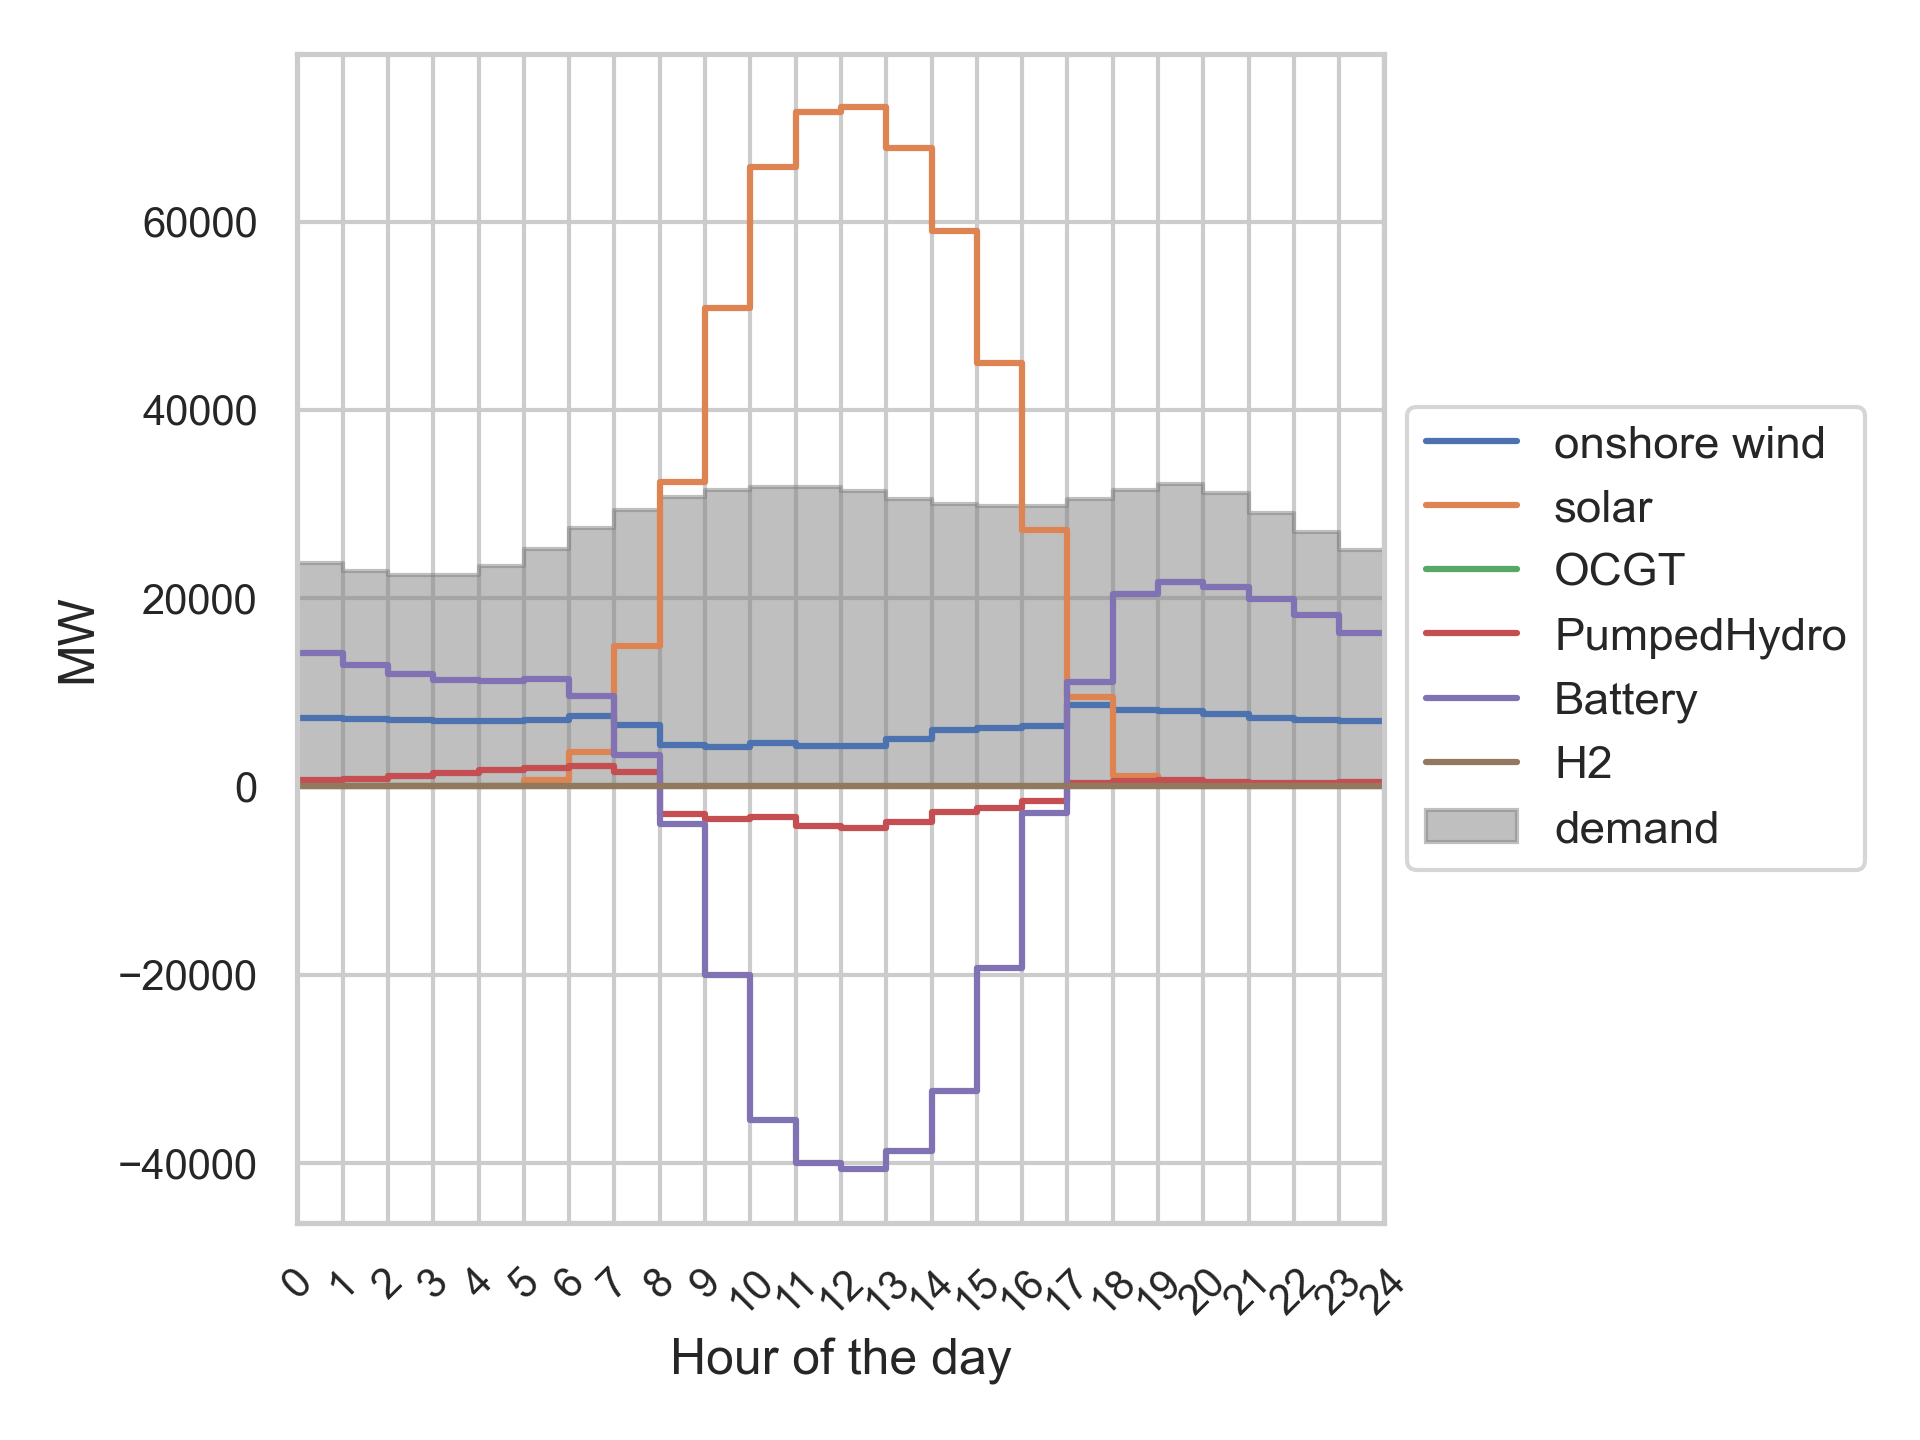
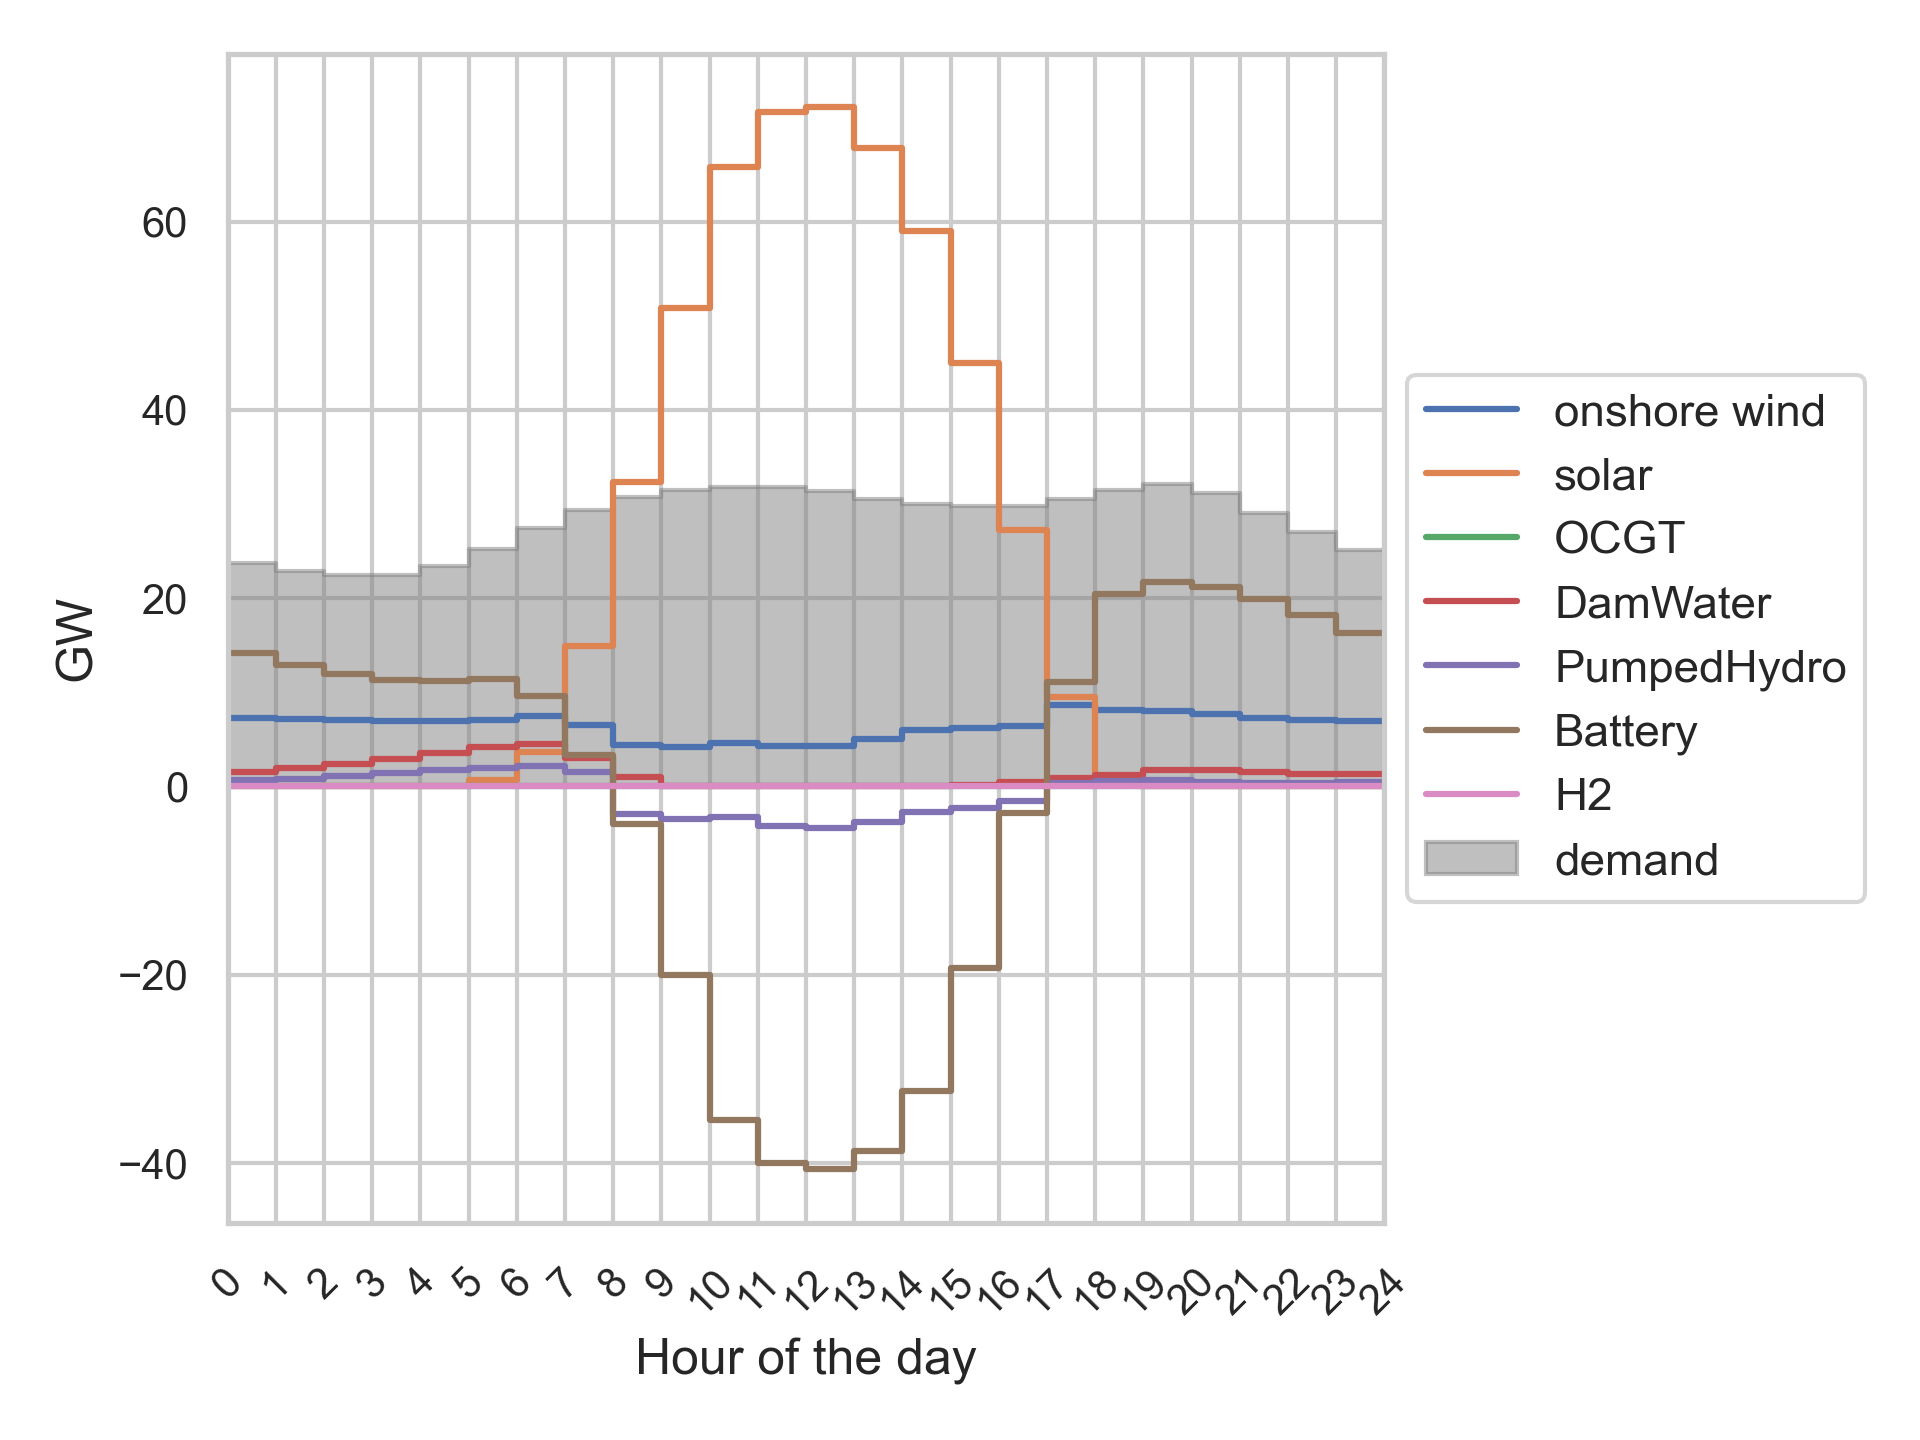
d, e

Changed region(s): [[0.0938, 0.0312, 0.7188, 0.9688], [0.7188, 0.25, 0.9688, 0.625], [0.0312, 0.4375, 0.0625, 0.4688]]

diff --git a/results_plotter.py b/results_plotter.py
@@ -215,7 +215,8 @@ def plot_weather_variability(network_sols, filename: str = None):
 
 
 def plot_storage_day(network: pypsa.Network, filename: str | None = None):
-    network.generators_t.p[REFERENCES['GENERATORS']].groupby(network.snapshots.hour).mean().reindex(np.arange(0,25)).ffill().plot(drawstyle="steps-post") 
+    network.generators_t.p[REFERENCES['GENERATORS']].groupby(network.snapshots.hour).mean().div(1e3).reindex(np.arange(0,25)).ffill().plot(drawstyle="steps-post")
+    # (- network.links_t.p1["HDAM"]).groupby(network.snapshots.hour).mean().div(1e3).reindex(np.arange(0,25)).ffill().plot(drawstyle="steps-post", label="Dam Hydro")
     for store in ["DamWater", "PumpedHydro", "Battery", "H2"]:
         charge = (network.links.loc[network.links['bus1'] == store].index[0] if store != "DamWater" else [])
         discharge = network.links.loc[network.links['bus0'] == store].index[0]
@@ -224,14 +225,17 @@ def plot_storage_day(network: pypsa.Network, filename: str | None = None):
         #     label=store,
         # )
         plt.step(
-            x=network.links_t.p1[discharge].groupby(network.snapshots.hour).mean().reindex(np.arange(0,25)).ffill().index,
-            y=(- network.links_t.p1[discharge].groupby(network.snapshots.hour).mean().reindex(np.arange(0,25)).ffill() if store != "DamWater" else 0) - network.links_t.p0[charge].groupby(network.snapshots.hour).mean().reindex(np.arange(0,25)).ffill(), 
+            x=network.links_t.p1[discharge].groupby(network.snapshots.hour).mean().div(1e3).reindex(np.arange(0,25)).ffill().index,
+            y= (
+                - network.links_t.p1[discharge].groupby(network.snapshots.hour).mean().div(1e3).reindex(np.arange(0,25)).ffill() 
+                - (network.links_t.p0[charge].groupby(network.snapshots.hour).mean().div(1e3).reindex(np.arange(0,25)).ffill()  if store != "DamWater" else 0)
+            ), 
             label=store,
             where='post',
         )
     plt.fill_between(
-        x=network.loads_t.p['load'].groupby(network.snapshots.hour).mean().reindex(np.arange(0,25)).ffill().index,
-        y1=network.loads_t.p['load'].groupby(network.snapshots.hour).mean().reindex(np.arange(0,25)).ffill(), 
+        x=network.loads_t.p['load'].groupby(network.snapshots.hour).mean().div(1e3).reindex(np.arange(0,25)).ffill().index,
+        y1=network.loads_t.p['load'].groupby(network.snapshots.hour).mean().div(1e3).reindex(np.arange(0,25)).ffill(), 
         color='grey', 
         label='demand',
         alpha=0.5,
@@ -239,7 +243,7 @@ def plot_storage_day(network: pypsa.Network, filename: str | None = None):
     )
     plt.legend(fancybox=True, loc='center left', bbox_to_anchor=(1, 0.5))
     plt.xlabel("Hour of the day")
-    plt.ylabel("MW")
+    plt.ylabel("GW")
     plt.xticks(np.arange(25), np.arange(25), rotation=45)
     plt.xlim(
         network.loads_t.p['load'].groupby(network.snapshots.hour).mean().index[0], 
@@ -277,7 +281,7 @@ def capacity_mixes_storage(networks: Dict[str, pypsa.Network], filename: str | N
         plt.plot(gen_capacities[label], '--o', color=color, label=label)
     # plt.plot(gen_capacities, style='--o', color=COLORS['GENERATORS'])
     # gen_capacities.plot(style='--o', color=COLORS['GENERATORS'], xticks=gen_capacities.index)
-    plt.ylabel("Capacity (MW)")
+    plt.ylabel("Capacity [GW]")
     plt.xlabel("Scenario")
     plt.xticks(np.arange(len(gen_capacities)), gen_capacities.index)
     plt.legend()
@@ -287,16 +291,19 @@ def capacity_mixes_storage(networks: Dict[str, pypsa.Network], filename: str | N
 
     plt.show()
 
-def plot_co2_limit_vs_price(co2_limits: np.ndarray, co2_prices: np.ndarray, filename: str | None = None):
-    plt.plot(co2_limits/1e6, co2_prices, 'bo-')
+def plot_co2_limit_vs_price(co2_limits: dict, co2_prices: dict, filename: str | None = None):
+    for label in co2_limits.keys():
+        plt.plot(co2_limits[label]/1e6, co2_prices[label], 'o-', label=label)
     # 62.54 EUR/tonCO2 in 2023 (Net Effective Carbon Rates)
     # https://www.oecd.org/content/dam/oecd/en/topics/policy-sub-issues/carbon-pricing-and-energy-taxes/carbon-pricing-spain.pdf
     plt.axhline(y=62.54, color='r', linestyle='--', label='62.54 €/ton CO$_2$')
     plt.legend(fancybox=True, shadow=True, loc='best')
     plt.xlabel(r"CO$_2$ limit [Mt CO$_2$]")
-    plt.ylabel(r"Price [€/Mton CO$_2$]")
+    plt.ylabel(r"Price [€/ton CO$_2$]")
+    plt.yscale('log')
     plt.title(r'Price vs CO$_2$ limit')
+    # plt.ylim(0, 500)
 
-    if filename is not None: save_figure(filename)
+    # if filename is not None: save_figure(filename)
 
     plt.show()

diff --git a/e.py b/e.py
@@ -10,7 +10,9 @@ if __name__ == "__main__":
     data = DataLoader(country="ESP", discount_rate=0.07)
 
     # Create the CO2 limits
-    co2_limits = create_co2_limits(10)
+    # co2_limits = create_co2_limits(10)
+    # co2_limits = np.array([20, 16, 12, 8, 4, 2, 0]) * 1e6
+    co2_limits = np.array([3, 2, 1, 0]) * 1e6
 
     co2_prices = []
     for co2_limit in co2_limits:
@@ -28,7 +30,24 @@ if __name__ == "__main__":
         print(f"CO2 price: {np.round(co2_price / 1000, 2)} t€/tonCO2")
         co2_prices.append(np.round(co2_price, 2))
 
+    co2_limits = {"storage": co2_limits}
+    co2_prices = {"storage": co2_prices}
+
+    co2_limits = {
+        "base": np.array([40000000., 35000000, 30000000., 20000000., 16000000., 12000000., 8000000., 4000000., 2000000., 0.]),
+        "storage": np.array([3000000, 2000000., 1000000, 0.]),
+    }
+    co2_prices = {
+        "base": np.array([0.0, 12.86,  41.65, 139.9, 203.31, 303.66, 442.99, 848.75, 3954.75, 9024345.03]),
+        "storage": np.array([0.0, 87.16, 113.66, 26605.84]),
+    }
+
     plot.plot_co2_limit_vs_price(co2_limits=co2_limits, co2_prices=np.array(co2_prices)) #, filename="e_co2_limit_vs_price.png")
 
-# co2_limits = [50000000., 20000000., 16000000., 12000000., 8000000., 4000000., 2000000., 0.]
-# co2_prices = [0.0, 0.0, 0.0, 0.0, 0.0, 0.0, 87.16, 26605.84]
+# base case
+# co2_limits = [[50000000., 40000000., 35000000, 30000000., 20000000., 16000000., 12000000., 8000000., 4000000., 2000000., 0.]
+# co2_prices = [[0.0, 0.0, 12.86,  41.65, 139.9, 203.31, 303.66, 442.99, 848.75, 3954.75, 9024345.03]
+
+# Including storage
+# co2_limits = [50000000., 20000000., 16000000., 12000000., 8000000., 4000000., 3000000, 2000000., 1000000, 0.]
+# co2_prices = [0.0, 0.0, 0.0, 0.0, 0.0, 0.0, 0.0, 87.16, 113.66, 26605.84]

diff --git a/d.py b/d.py
@@ -196,4 +196,4 @@ if __name__ == "__main__":
     # plot.plot_series(network) #, filename="d_storage_plot.png")
 
     # Compare capacity mixes with and without the CO2 constraint and storage 
-    # compare_capacity_mixes(data, co2_limit, filename="d_capacity_mix_plot.png")
+    compare_capacity_mixes(data, co2_limit, filename="d_capacity_mix_plot.png")
